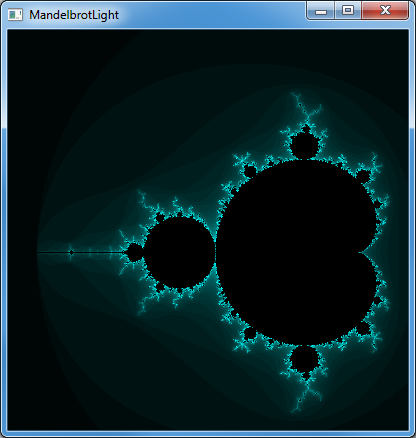
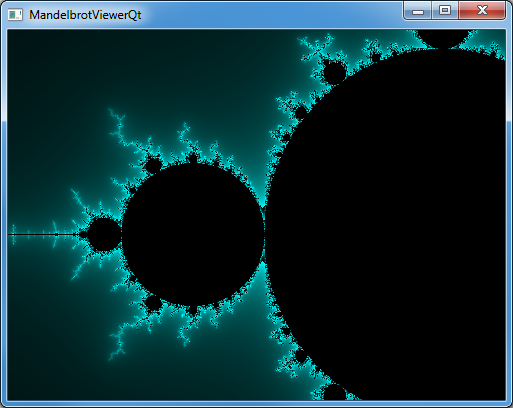
Updated demo pictures

diff --git a/src/MandelbrotWidget.cpp b/src/MandelbrotWidget.cpp
@@ -147,7 +147,7 @@ dwellValue MandelbrotWidget::calculateMandelPointDwellValue(MandelPoint point){
 QColor MandelbrotWidget::calculateDwellValueColor(dwellValue value){
     
     if(value == maxIterations){return DEFAULT_QCOLOR_IN_SET;}
-    value = uint(value) % 256;
+    value = uint(value * 8) % 256;
     return QColor(value, 0, value);
     
     

diff --git a/README.md b/README.md
@@ -16,4 +16,7 @@ TODO:
 ![Screenshot](/demos/GUI_mandel.png?raw=true)
    
    
-![Screenshot](/demos/miniMandel1_small.png?raw=true)
+![Screenshot](/demos/mini_mandel1.png?raw=true)
+   
+   
+![Screenshot](/demos/spiral1.png?raw=true)
